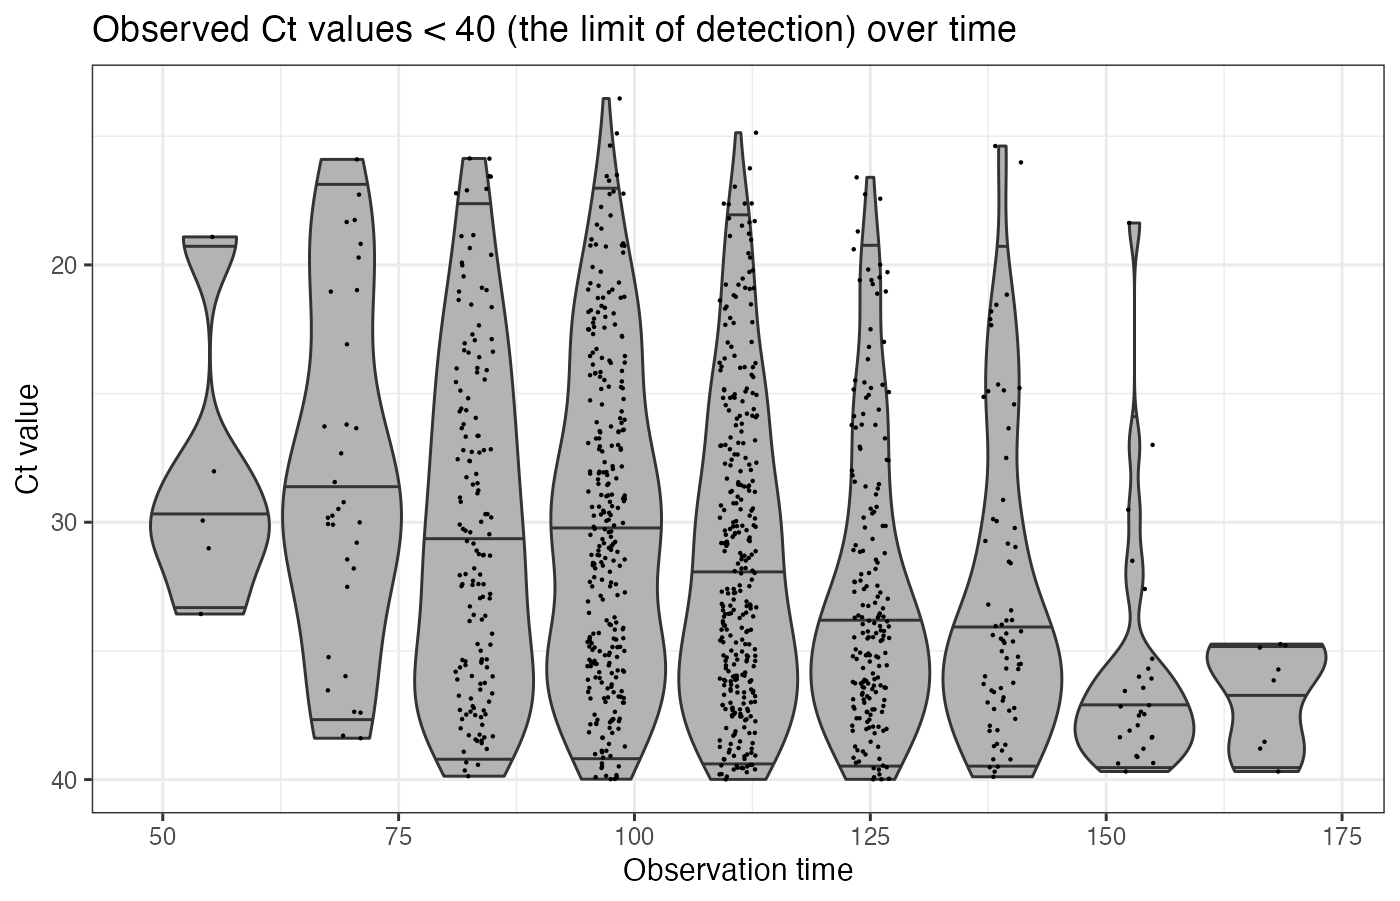
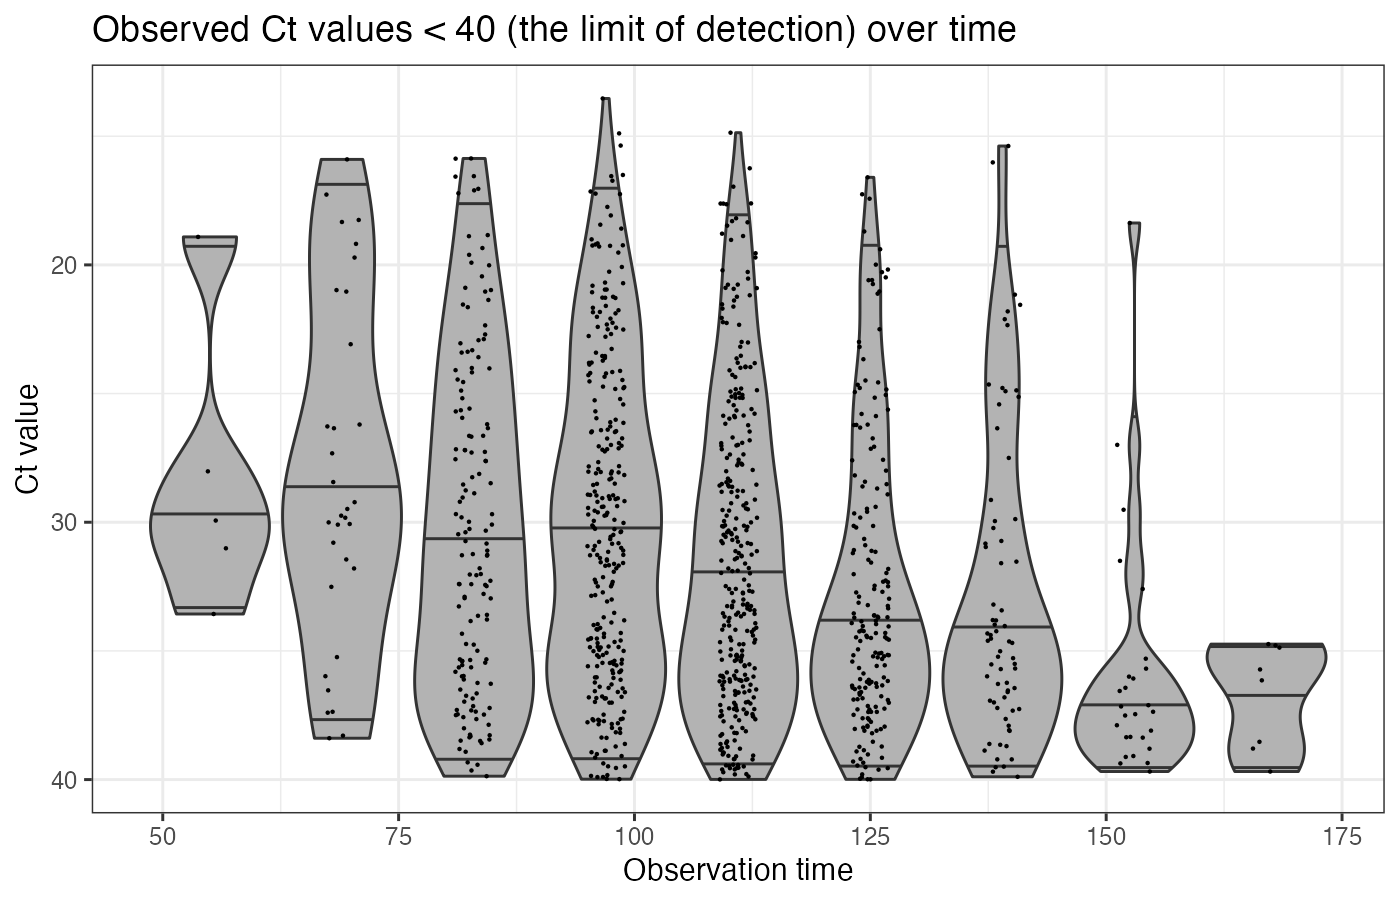
Updated pkgdown site

diff --git a/docs/index.html b/docs/index.html
@@ -80,8 +80,8 @@
 <div id="setup" class="section level1">
 <h1 class="hasAnchor">
 <a href="#setup" class="anchor" aria-hidden="true"></a>Setup</h1>
-<p>This package relies on the <code>lazymcmc</code> R package, which is used for the MCMC procedure. This is easy to do with <code>devtools::install_github("jameshay218/lazymcmc")</code>. <em>However</em>, for many analyses where multi-modal posteriors are suspected, a separate branch implementing parallel tempering is needed. I’d recommend you set this up as follows: - Install the <code>lazymcmc</code> base package using <code><a href="https://devtools.r-lib.org//reference/remote-reexports.html" class="external-link">devtools::install_github</a></code> as above. Any time this version is used, <code><a href="https://github.com/jameshay218/lazymcmc" class="external-link">library(lazymcmc)</a></code> is called. - Clone the <code>parallel_tempering</code> branch from <a href="https://github.com/jameshay218/lazymcmc/tree/parallel_tempering" class="external-link">here</a>. Whenever this version is needed, then <code>devtools::load_all("PATH TO LAZYMCMC PARALLEL TEMPERING REPO")</code> is called instead.</p>
-<p>It is possible to install the parallel tempering branch directly with <code>devtools::load_all("jameshay218/lazymcmc",ref="parallel_tempering")</code>, but I prefer to load the package locally until I merge the parallel tempering and master branches.</p>
+<p>This package relies on the <code>lazymcmc</code> R package, which is used for the MCMC procedure. This is easy to do with <code>devtools::install_github("jameshay218/lazymcmc")</code>. <em>However</em>, for many analyses where multi-modal posteriors are suspected, a separate branch implementing parallel tempering is needed. I’d recommend you set this up as follows: - Install the <code>lazymcmc</code> base package using <code>devtools::install_github("jameshay218/lazymcmc")</code> as above. Any time this version is used, <code><a href="https://github.com/jameshay218/lazymcmc" class="external-link">library(lazymcmc)</a></code> is called. - Clone the <code>parallel_tempering</code> branch from <a href="https://github.com/jameshay218/lazymcmc/tree/parallel_tempering" class="external-link">here</a>. Whenever this version is needed, then <code>devtools::load_all("PATH TO LAZYMCMC PARALLEL TEMPERING REPO")</code> is called instead.</p>
+<p>It is possible to install the parallel tempering branch directly with <code>devtools::install_github("jameshay218/lazymcmc@parallel_tempering")</code>, but I prefer to load the package locally until I merge the parallel tempering and master branches.</p>
 <p>A number of generic R packages are also used throughout:</p>
 <div class="sourceCode" id="cb1"><pre class="downlit sourceCode r">
 <code class="sourceCode R"><span class="fu"><a href="https://rdrr.io/r/base/c.html" class="external-link">c</a></span><span class="op">(</span><span class="st">"tidyverse"</span>,<span class="st">"ggthemes"</span>,<span class="st">"ggpubr"</span>,<span class="st">"ggsci"</span>,<span class="st">"data.table"</span>,<span class="st">"patchwork"</span>,

diff --git a/docs/articles/vignette.html b/docs/articles/vignette.html
@@ -188,11 +188,11 @@
 <span class="co">## # A tibble: 6 x 3</span>
 <span class="co">##     age i        ct</span>
 <span class="co">##   &lt;dbl&gt; &lt;chr&gt; &lt;dbl&gt;</span>
-<span class="co">## 1     1 1      32.4</span>
-<span class="co">## 2     1 2      29.5</span>
-<span class="co">## 3     1 3      32.5</span>
+<span class="co">## 1     1 1      30.1</span>
+<span class="co">## 2     1 2      33.8</span>
+<span class="co">## 3     1 3      38.1</span>
 <span class="co">## 4     1 4      40  </span>
-<span class="co">## 5     1 5      32.1</span>
+<span class="co">## 5     1 5      40  </span>
 <span class="co">## 6     1 6      40</span>
 <span class="va">p_sim_cts_age</span> <span class="op">&lt;-</span> <span class="fu"><a href="https://ggplot2.tidyverse.org/reference/ggplot.html" class="external-link">ggplot</a></span><span class="op">(</span><span class="va">sim_cts</span> <span class="op"><a href="https://magrittr.tidyverse.org/reference/pipe.html" class="external-link">%&gt;%</a></span> <span class="fu"><a href="https://dplyr.tidyverse.org/reference/filter.html" class="external-link">filter</a></span><span class="op">(</span><span class="va">ct</span> <span class="op">&lt;</span> <span class="fl">40</span><span class="op">)</span><span class="op">)</span> <span class="op">+</span>
   <span class="fu"><a href="https://ggplot2.tidyverse.org/reference/geom_point.html" class="external-link">geom_point</a></span><span class="op">(</span><span class="fu"><a href="https://ggplot2.tidyverse.org/reference/aes.html" class="external-link">aes</a></span><span class="op">(</span>x<span class="op">=</span><span class="va">age</span>,y<span class="op">=</span><span class="va">ct</span><span class="op">)</span>,alpha<span class="op">=</span><span class="fl">0.25</span><span class="op">)</span> <span class="op">+</span>
